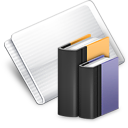
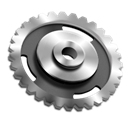
Add AppEngine.Caching to README and update instructions
Updated the project structure in the README to document the new AppEngine.Caching library and its subfolders. Improved formatting for clarity and consistency. Added TinyAppEngine.Caching to the NuGet installation instructions.

diff --git a/README.md b/README.md
@@ -10,49 +10,56 @@ AppEngine is a lightweight development engine for .NET web applications, designe
 
 ```
 AppEngine/
-├── .github/                            # GitHub configuration files
-│   ├── instructions/                   # Instructions for contributing and using the project
-│   │   └── copilot.instructions.md     # Instructions for using GitHub Copilot with the project
+├── .github/                                    # GitHub configuration files
+│   ├── instructions/                           # Instructions for contributing and using the project
+│   │   └── copilot.instructions.md             # Instructions for using GitHub Copilot with the project
 │   │
-│   ├── workflows/                      # GitHub Actions workflows for CI/CD
-│   │   ├── linter.yml                  # Workflow for code linting and formatting checks
-│   │   ├── publish.yml                 # Workflow for publishing the project to Baget
-│   │   └── publish_tools.yml           # Workflow for publishing the tools package to Baget
+│   ├── workflows/                              # GitHub Actions workflows for CI/CD
+│   │   ├── linter.yml                          # Workflow for code linting and formatting checks
+│   │   ├── publish.yml                         # Workflow for publishing the project to Baget
+│   │   └── publish_tools.yml                   # Workflow for publishing the tools package to Baget
 │   │
-│   └── dependabot.yml                  # Dependabot configuration for automated dependency updates
+│   └── dependabot.yml                          # Dependabot configuration for automated dependency updates
 │
 ├── src/
-│   ├── AppEngine/                      # Core functionalities and utilities
-│   │   ├──  Enums/                     # Enumeration types used across the project
-│   │   ├──  Extensions/                # Extension methods for various classes and types
-│   │   ├──  FluentValidation/          # Fluent validation rules and validators
-│   │   ├──  Logging/                   # Logging utilities and configurations
-│   │   ├──  Middleware/                # Custom middleware components
-│   │   ├──  Routing/                   # Routing configurations and related classes
-│   │   ├──  Settings/                  # Configuration classes and settings management
-│   │   └──  Validation/                # Validation logic and classes
+│   ├── AppEngine/                              # Core functionalities and utilities
+│   │   ├──  Enums/                             # Enumeration types used across the project
+│   │   ├──  Extensions/                        # Extension methods for various classes and types
+│   │   ├──  FluentValidation/                  # Fluent validation rules and validators
+│   │   ├──  Logging/                           # Logging utilities and configurations
+│   │   ├──  Middleware/                        # Custom middleware components
+│   │   ├──  Routing/                           # Routing configurations and related classes
+│   │   ├──  Settings/                          # Configuration classes and settings management
+│   │   └──  Validation/                        # Validation logic and classes
 │   │
-│   ├── AppEngine.Tools/                # Command-line tools and utilities
-│   │   ├──  ExceptionHandlers/         # Custom exception handlers and related classes
-│   │   ├──  Extensions/                # Extension methods specific to the tools
-│   │   ├──  OpenApi/                   # OpenAPI related utilities and classes
-│   │   │    ├── Filters/               # OpenAPI filters and related classes
-│   │   │    ├── Helpers/               # OpenAPI helper classes and utilities
-│   │   │    ├── Options/               # OpenAPI options and configuration classes
-│   │   │    └── SimpleAuthentication/  # OpenAPI extensions and utilities for simple authentication
+│   ├── AppEngine.Caching/                      # Caching utilities and implementations
+│   │   ├──  DependencyInjection/               # Dependency injection configurations for caching
+│   │   │    └── ServiceCollectionExtensions/   # Extension methods for IServiceCollection related to caching
 │   │   │
-│   │   ├──  OperationResult/           # Classes related to operation results and responses
-│   │   │    └── AspNetCore.Http/       # Operation result classes specific to ASP.NET Core HTTP responses
+│   │   ├──  Options/                           # Caching options and configuration classes
+│   │   └──  Settings/                          # Caching settings and related classes
+│   │
+│   ├── AppEngine.Tools/                        # Command-line tools and utilities
+│   │   ├──  ExceptionHandlers/                 # Custom exception handlers and related classes
+│   │   ├──  Extensions/                        # Extension methods specific to the tools
+│   │   ├──  OpenApi/                           # OpenAPI related utilities and classes
+│   │   │    ├── Filters/                       # OpenAPI filters and related classes
+│   │   │    ├── Helpers/                       # OpenAPI helper classes and utilities
+│   │   │    ├── Options/                       # OpenAPI options and configuration classes
+│   │   │    └── SimpleAuthentication/          # OpenAPI extensions and utilities for simple authentication
 │   │   │
-│   │   ├──  Serialization/             # Serialization utilities and classes
-│   │   ├──  SimpleAuthentication/      # Simple authentication utilities and classes
-│   │   │    ├── Abstractions/          # Abstractions and interfaces for authentication
-│   │   │    └── JWTBearer/             # JWT Bearer authentication related classes and utilities
+│   │   ├──  OperationResult/                   # Classes related to operation results and responses
+│   │   │    └── AspNetCore.Http/               # Operation result classes specific to ASP.NET Core HTTP responses
 │   │   │
-│   │   └──  TimeZoneService/           # Time zone related utilities and services
-│   │        └── Interfaces/            # Interfaces for time zone services
+│   │   ├──  Serialization/                     # Serialization utilities and classes
+│   │   ├──  SimpleAuthentication/              # Simple authentication utilities and classes
+│   │   │    ├── Abstractions/                  # Abstractions and interfaces for authentication
+│   │   │    └── JWTBearer/                     # JWT Bearer authentication related classes and utilities
+│   │   │
+│   │   └──  TimeZoneService/                   # Time zone related utilities and services
+│   │        └── Interfaces/                    # Interfaces for time zone services
 │   │   
-│   └── Directory.Build.props           # Shared MSBuild properties
+│   └── Directory.Build.props                   # Shared MSBuild properties
 │
 ├── .editorconfig                       # Code style and formatting rules
 ├── .gitignore                          # Git ignore file
@@ -75,6 +82,8 @@ The libraries are available on [Baget](http://nuget.aepserver.it), just search f
 dotnet add package TinyAppEngine
 
 dotnet add package TinyAppEngine.Tools
+
+dotnet add package TinyAppEngine.Caching
 ```
 
 > [!NOTE]
